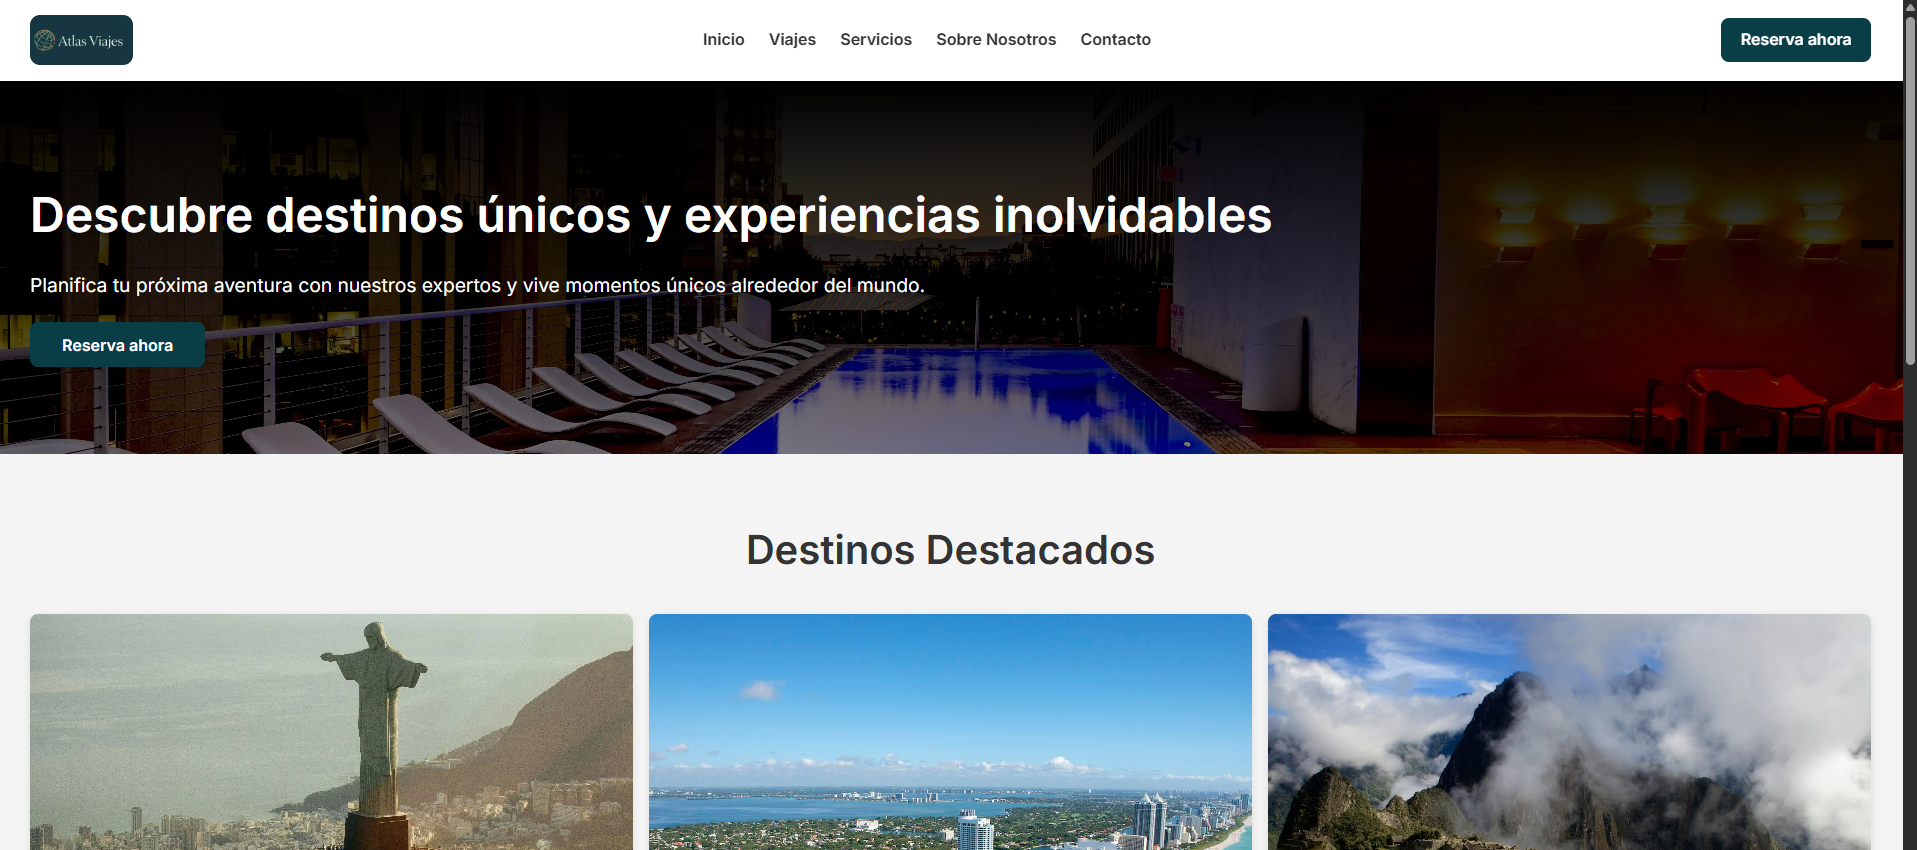
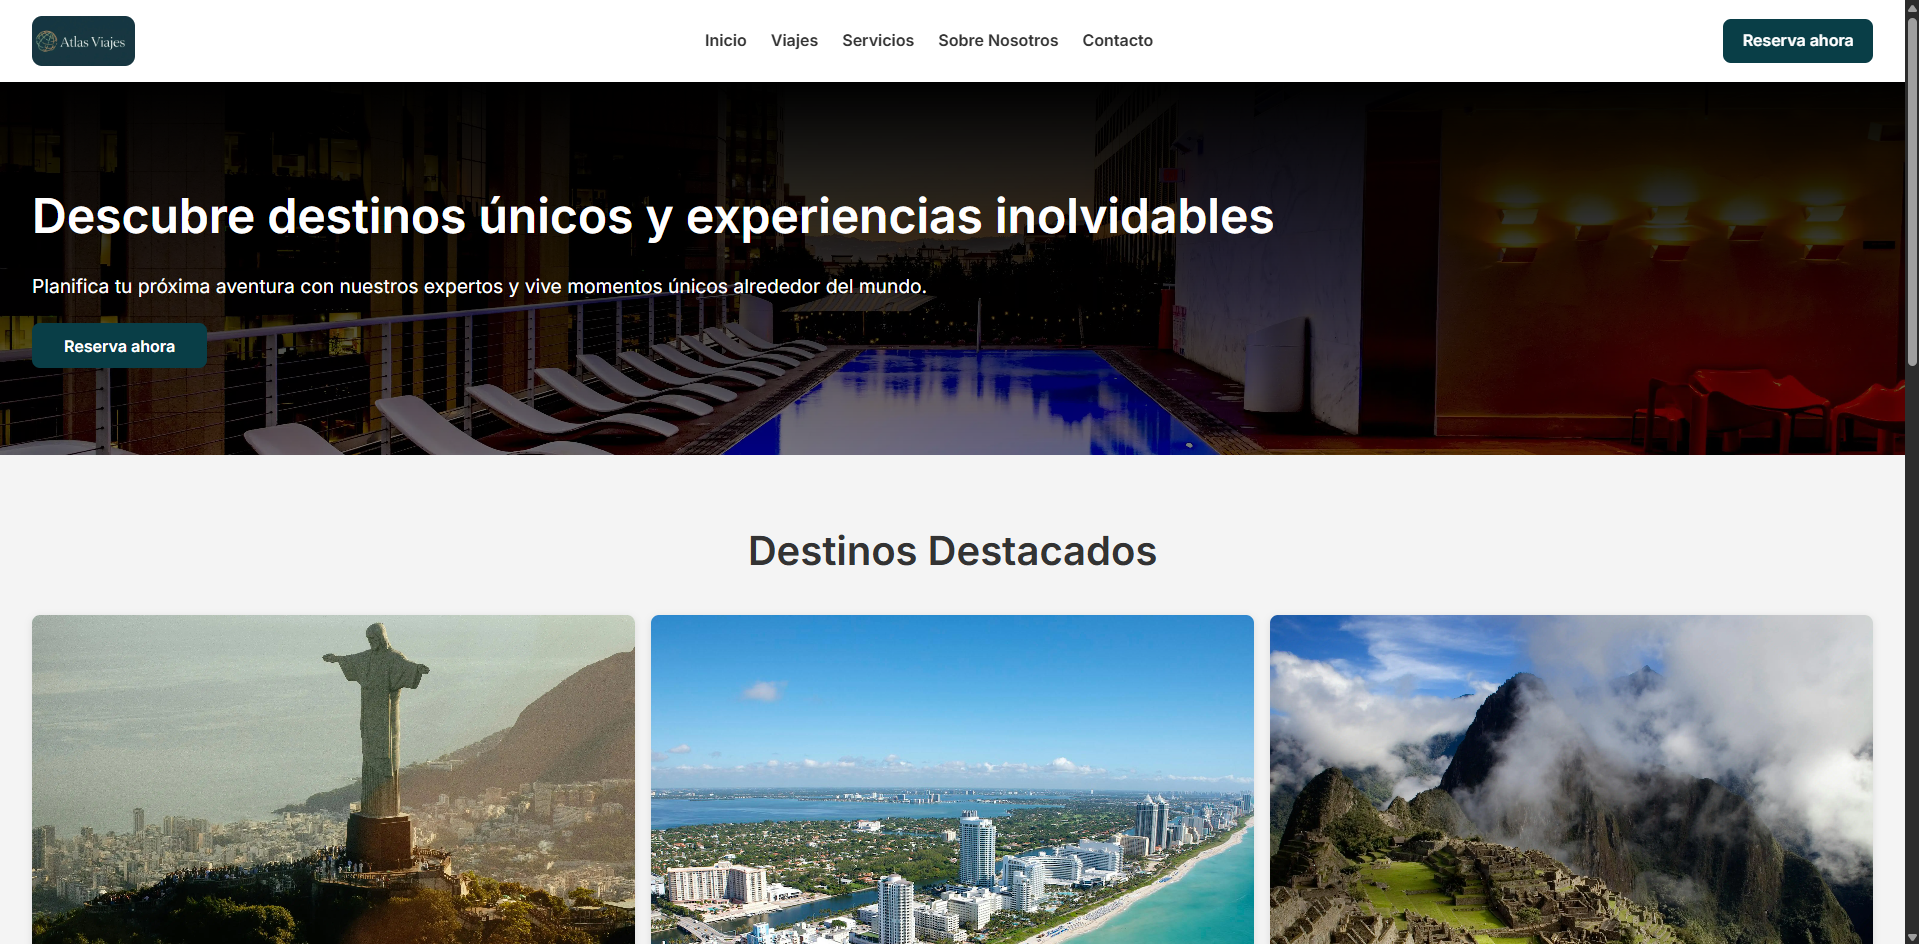
feat: actualizacion de fotos para seccion proyectos y api nueva para correos enviados a mi email personal

diff --git a/index.html b/index.html
@@ -207,7 +207,6 @@
               performance y animaciones interactivas, demostrando versatilidad y
               dominio técnico en entornos innovadores.
             </p>
-            <p>Tiempo de elaboración: 10 días</p>
             <p class="tech">Tecnologías: TypeScript, Next.js, Tailwind CSS.</p>
             <div class="project-links">
               <a href="https://lautaro-orellano.vercel.app/" target="_blank"
@@ -271,20 +270,12 @@
     <section id="contact" class="section-contact">
       <h2>Contacto</h2>
       <div class="contact-content">
-        <form
-          action="mailto:tuemail@ejemplo.com"
-          method="post"
-          enctype="text/plain"
-        >
+        <form id="contact-form">
           <input type="text" name="name" placeholder="Nombre" required />
           <input type="email" name="email" placeholder="Correo" required />
-          <textarea
-            name="message"
-            rows="5"
-            placeholder="Mensaje"
-            required
-          ></textarea>
+          <textarea name="message" rows="5" placeholder="Mensaje" required></textarea>
           <button type="submit" class="btn-primary">Enviar</button>
+          <p id="form-status" style="margin-top:10px; font-weight:bold;"></p>
         </form>
 
         <div class="contact-alternative">
@@ -312,5 +303,6 @@
     
     <!-- JS para efectos leves -->
     <script src="js/app.js"></script>
+    <script src="https://cdn.jsdelivr.net/npm/emailjs-com@3/dist/email.min.js"></script>
   </body>
 </html>

diff --git a/js/app.js b/js/app.js
@@ -64,4 +64,43 @@ window.addEventListener("scroll", () => {
   }
 });
 
+// ==================== FORMULARIO DE CONTACTO ====================
+document.addEventListener("DOMContentLoaded", () => {
+  // Inicializar EmailJS con tu clave pública
+  emailjs.init("qLrljyhonXlsIP_Nt");
+
+  const contactForm = document.getElementById("contact-form");
+  const status = document.getElementById("form-status");
+
+  if (contactForm) {
+    contactForm.addEventListener("submit", function (e) {
+      e.preventDefault();
+
+      status.textContent = "Enviando mensaje...";
+      status.style.color = "white";
+
+      const templateParams = {
+        name: contactForm.name.value,
+        email: contactForm.email.value,
+        message: contactForm.message.value,
+        time: new Date().toLocaleString(),
+      };
+
+      emailjs
+        .send("service_ecdza3i", "template_feng11h", templateParams)
+        .then(() => {
+          status.style.color = "limegreen";
+          status.textContent = "✅ Mensaje enviado con éxito";
+          contactForm.reset();
+        })
+        .catch((error) => {
+          console.error("Error al enviar el email:", error);
+          status.style.color = "red";
+          status.textContent =
+            "❌ Hubo un problema al enviar el mensaje. Intentalo de nuevo.";
+        });
+    });
+  }
+});
+
 

diff --git a/css/index.css b/css/index.css
@@ -3,6 +3,7 @@
   --bg-color: #fdfdfd;
   --text-color: #222;
   --card-bg: #fff;
+  --tertiary-text: #2fc550;
   --secondary-text: #555;
   --primary-color: #1e097a;
   --footer-bg: #222;
@@ -250,7 +251,7 @@ body.dark-theme #theme-toggle img {
 .project-info .tech {
   font-style: italic;
   font-size: 0.85rem;
-  color: var(--secondary-text);
+  color: var(--tertiary-text);
 }
 
 .project-links a {
